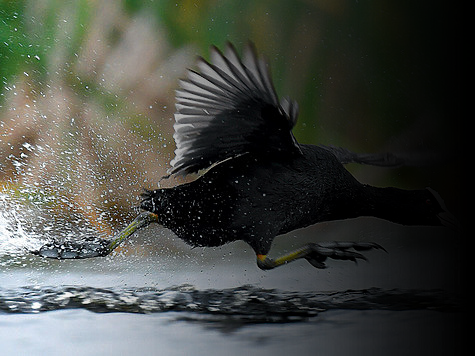
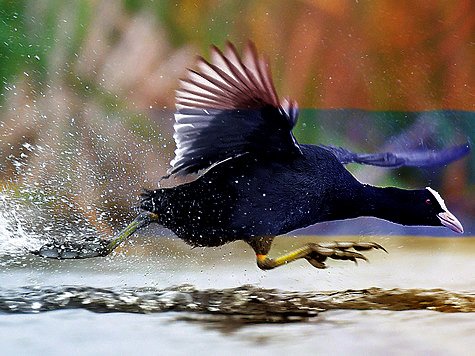
fixed SoftLight

diff --git a/src/App.java b/src/App.java
@@ -211,7 +211,7 @@ public class App {
         double cb = a / 255.0;
         double cs = b / 255.0;
         if (cs > 0.5)
-            return (int) (cb + (2 * cs - 1) * (blendSoftLightD(cb) - cb));
-        return (int) (cb - (1 - 2 * cs) * cb * (1 - cb));
+            return (int) ((cb + (2 * cs - 1) * (blendSoftLightD(cb) - cb)) * 255);
+        return (int) ((cb - (1 - 2 * cs) * cb * (1 - cb)) * 255);
     }
 }
